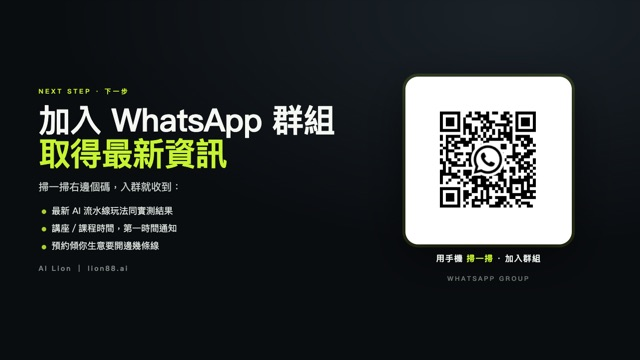
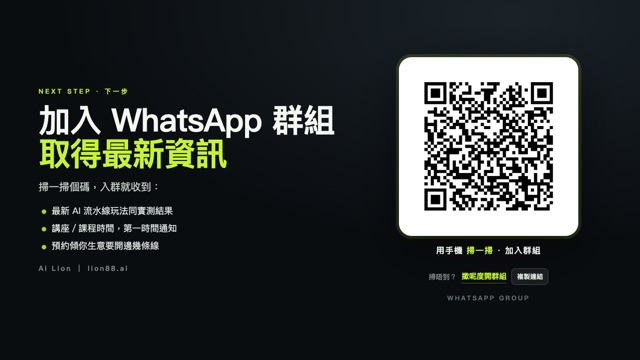
修好 WhatsApp QR（重生成 1000px 高容錯）、CTA 加文字連結後備、客戶版加 CTA 頁

Changed region(s): [[0.5938, 0.1528, 0.9062, 0.7944], [0.0938, 0.4889, 0.2812, 0.55], [0.6875, 0.825, 0.8125, 0.8556]]

diff --git a/cta-scan.html b/cta-scan.html
@@ -24,15 +24,24 @@ li::before{content:"";position:absolute;left:6px;top:.58em;width:9px;height:9px;
 .qrside{display:flex;flex-direction:column;align-items:center;gap:clamp(12px,2.2vh,22px)}
 .qrbox{background:#fff;border-radius:clamp(14px,2vw,26px);padding:clamp(12px,2vw,26px);
   box-shadow:0 30px 90px rgba(0,0,0,.55),0 0 0 6px rgba(198,244,50,.16)}
-.qrbox img{display:block;width:clamp(160px,22vw,340px);height:auto}
+.qrbox img{display:block;width:clamp(180px,24vw,410px);height:auto;image-rendering:auto}
 .qrside .cap{font-size:clamp(12px,1.3vw,18px);font-weight:800;letter-spacing:.08em;color:#E8EFE9;text-align:center}
 .qrside .cap b{color:var(--green)}
 .brandline{font-size:clamp(10px,1vw,13px);letter-spacing:.24em;color:#6E7A74;font-weight:800}
+.fallback{display:flex;align-items:center;justify-content:center;gap:10px;flex-wrap:wrap;
+  margin-top:clamp(4px,1vh,10px)}
+.fallback span{font-size:clamp(11px,1.1vw,14px);color:#8C9A94}
+.fallback a{font-size:clamp(12px,1.2vw,15px);font-weight:800;color:var(--green);text-decoration:none;
+  border-bottom:1px solid rgba(198,244,50,.4);padding-bottom:1px}
+.fallback button{font:inherit;font-size:clamp(11px,1.1vw,13px);font-weight:800;cursor:pointer;
+  background:rgba(255,255,255,.07);border:1px solid rgba(255,255,255,.18);color:#DDE6E0;
+  border-radius:8px;padding:5px 10px}
+.fallback button:hover{background:rgba(255,255,255,.14)}
 @media (max-width:820px){
   .wrap{grid-template-columns:1fr;align-content:center;gap:26px;padding:30px 22px;text-align:center}
   ul{align-items:flex-start;text-align:left;display:inline-flex}
   .qrside{order:-1}
-  .qrbox img{width:clamp(150px,44vw,240px)}
+  .qrbox img{width:clamp(170px,52vw,280px)}
 }
 </style>
 </head>
@@ -41,7 +50,7 @@ li::before{content:"";position:absolute;left:6px;top:.58em;width:9px;height:9px;
   <div>
     <div class="kick">NEXT STEP · 下一步</div>
     <h1>加入 WhatsApp 群組<br><span class="y">取得最新資訊</span></h1>
-    <p class="lede">掃一掃右邊個碼，入群就收到：</p>
+    <p class="lede">掃一掃個碼，入群就收到：</p>
     <ul>
       <li>最新 AI 流水線玩法同實測結果</li>
       <li>講座／課程時間，第一時間通知</li>
@@ -52,9 +61,28 @@ li::before{content:"";position:absolute;left:6px;top:.58em;width:9px;height:9px;
   <div class="qrside">
     <div class="qrbox"><img src="assets/whatsapp-qr.png" alt="WhatsApp 群組 QR Code"></div>
     <div class="cap">用手機 <b>掃一掃</b> · 加入群組</div>
+    <div class="fallback">
+      <span>掃唔到？</span>
+      <a href="https://chat.whatsapp.com/K9md76bQaFHLSQX0CZm3HH" target="_blank" rel="noopener">撳呢度開群組</a>
+      <button id="copyBtn" type="button">複製連結</button>
+    </div>
     <div class="brandline">WHATSAPP GROUP</div>
   </div>
 </div>
+<script>
+(function(){
+  var url = "https://chat.whatsapp.com/K9md76bQaFHLSQX0CZm3HH";
+  var b = document.getElementById("copyBtn");
+  if (!b) return;
+  b.addEventListener("click", function(e){
+    e.stopPropagation();
+    function done(){ b.textContent = "已複製"; setTimeout(function(){ b.textContent = "複製連結"; }, 1600); }
+    if (navigator.clipboard && navigator.clipboard.writeText){
+      navigator.clipboard.writeText(url).then(done, function(){ prompt("複製呢條連結：", url); });
+    } else { prompt("複製呢條連結：", url); }
+  });
+})();
+</script>
 <script>
 /* 同其他版面一致：↓／→ 下一版，↑／← 上一版（呢頁之前完全冇導航） */
 (function(){

diff --git a/presentation.html b/presentation.html
@@ -129,10 +129,13 @@ function go(id, end){
 }
 function setNow(id){
   const d = DECKS.find(x => x.id === id);
-  now.textContent = d ? d.name : (id === "intro" ? "封面" : (id === "ai-staff" ? "AI 員工 · 15 個" : id));
-  document.title = (d ? d.name : "封面") + " · AI 流水線";
+  now.textContent = d ? d.name
+    : (id === "intro" ? "封面"
+    : (id === "ai-staff" ? "AI 員工 · 15 個"
+    : (id === "cta" ? "加入 WhatsApp 群組" : id)));
+  document.title = (d ? d.name : (id === "cta" ? "加入 WhatsApp 群組" : "封面")) + " · AI 流水線";
 }
-const NEXT_AFTER_STAFF = "one-video-pipeline";  /* 客戶版：AI 員工後回到第一條線 */
+const NEXT_AFTER_STAFF = "cta";  /* 客戶版：AI 員工後去 WhatsApp CTA（同 seminar 一致） */
 function open(id, end){
   if (!id) return;
   if (id.indexOf("intro") === 0){
@@ -142,6 +145,7 @@ function open(id, end){
   }
   else if (id === "ai-staff"){ f.src = "ai-staff.html?next=" + NEXT_AFTER_STAFF; setNow("ai-staff"); }
   else if (id === "ai-staff-2"){ f.src = "ai-staff.html?at=2&next=" + NEXT_AFTER_STAFF; setNow("ai-staff"); }
+  else if (id === "cta"){ f.src = "cta-scan.html"; setNow("cta"); }
   else if (id.slice(-4) === "-end") go(id.slice(0,-4), true);
   else go(id, !!end);
 }
@@ -210,6 +214,7 @@ function row(label, small, fn){
 row("封面 · 開場三版", "INTRO", () => { f.src = "intro.html"; setNow("intro"); });
 DECKS.forEach((d,i) => row(d.name, String(i+1).padStart(2,"0"), () => go(d.id, false)));
 row("AI 員工 · 15 個", "STAFF", () => open("ai-staff"));
+row("加入 WhatsApp 群組", "CTA", () => open("cta"));
 
 const ov = document.getElementById("ov");
 const ovgrid = document.getElementById("ovgrid");
@@ -220,7 +225,8 @@ const ALL = [
   return { img:"assets/ov/" + d.id + ".jpg", name:d.name, open:function(){ go(d.id, false); } };
 })).concat([
   { img:"assets/ov/staff1.jpg", name:"AI 員工 · 15 個", open:function(){ open("ai-staff"); } },
-  { img:"assets/ov/staff2.jpg", name:"AI 員工 · 睇晒邊個做緊咩", open:function(){ open("ai-staff-2"); } }
+  { img:"assets/ov/staff2.jpg", name:"AI 員工 · 睇晒邊個做緊咩", open:function(){ open("ai-staff-2"); } },
+  { img:"assets/ov/cta.jpg", name:"加入 WhatsApp 群組", open:function(){ open("cta"); } }
 ]);
 
 function buildOverview(){
